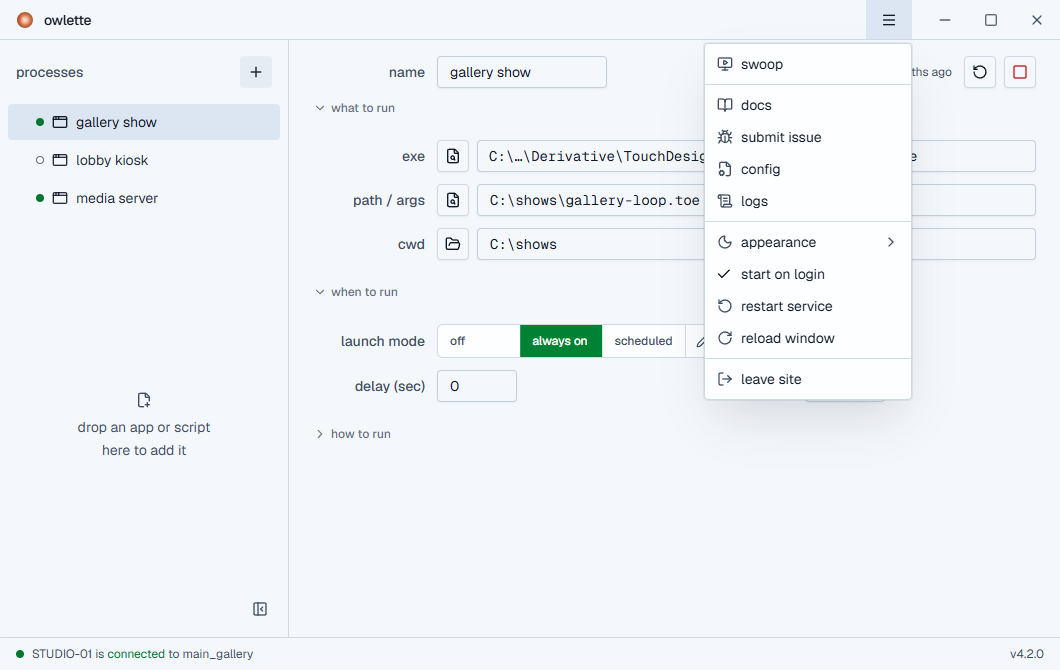
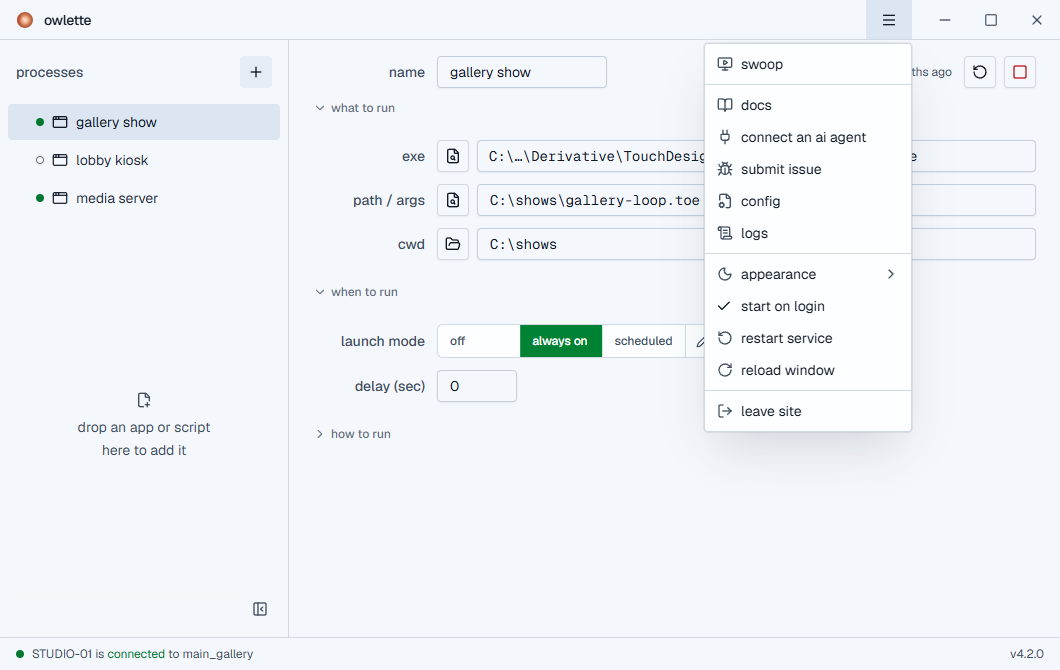
test: the screenshot app has the hoot mcp script, so its menu shows connect an ai agent

diff --git a/web/e2e/desktop-screenshots/harness.ts b/web/e2e/desktop-screenshots/harness.ts
@@ -263,6 +263,8 @@ export function buildScratchRoot(): string {
   for (const relative of ['config', 'tmp', 'agent/src', 'logs']) {
     fs.mkdirSync(path.join(SCRATCH_ROOT, ...relative.split('/')), { recursive: true })
   }
+  // the app offers "connect an ai agent" only when the hoot mcp script is installed
+  fs.writeFileSync(path.join(SCRATCH_ROOT, 'agent', 'src', 'fleet_mcp.py'), '')
 
   if (fs.existsSync(PYTHON_DIR)) {
     fs.symlinkSync(PYTHON_DIR, path.join(SCRATCH_ROOT, 'python'), 'junction')
